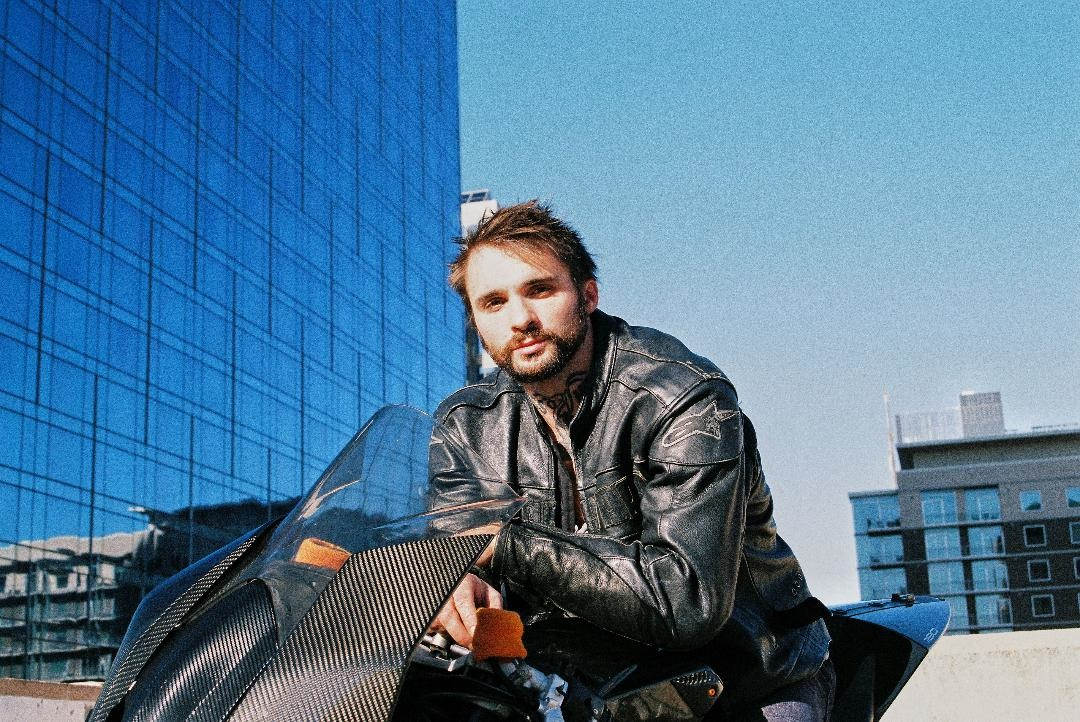
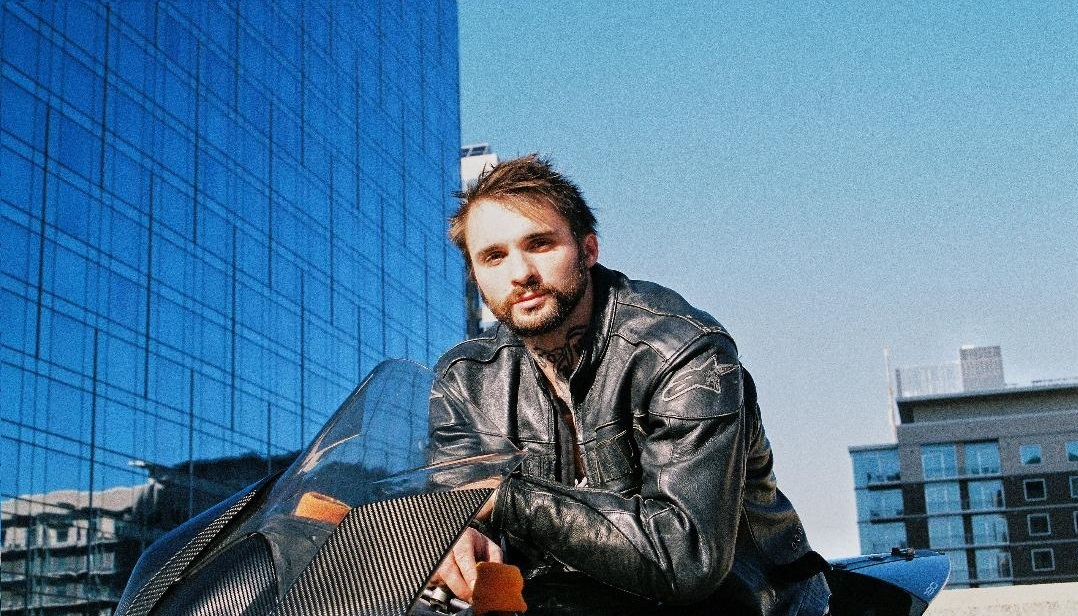
Up7
About page mvp

diff --git a/src/components/About/Index.js b/src/components/About/Index.js
@@ -4,15 +4,24 @@ import shot from "../../Assets/shot.jpg";
 function About() {
 
   return (
-    <section className="my-5" >
-      <h1 id="about">About</h1>
-      <img src={shot} className="my-2" style={{ width: "60%" }} alt="cover" />
-      <div className="my-2">
-        <p>
-        Will Bousman is a web developer living in Austin, Texas offering world-class technology services incorporating industry insights and adaptive acumen to leverage a strong foundation in engaging design principles, delivering dynamic solutions, fulfilling digital visions, and providing continuums of object-oriented scalable workforce service mobilization and reactive enterprise opportunities to digital innovation driving improved results streamlining actionable data into ideal versatile architechtural process management while simultaneously adventing mobile first value to disruptive strategic consulting business intelligence and online/database marketing technology that transforms clients through modern asynchronous machine learning tailored to emerging industries. Also he rides motorcycles.
+      <section>
+      <div className="wrap">
+        <img src={shot} className="img" alt="language-agnostic deadlock extraordinaire" />
+      </div>
+      <div>
+        <p className="about">About</p>
+      </div>
+      <div>
+        <p className="blurb">
+        Will Bousman is a web developer living in Austin, Texas offering world-class technology services incorporating industry insights and adaptive acumen to leverage a strong foundation in engaging design principles, delivering dynamic solutions, fulfilling digital visions, and providing continuums of object-oriented scalable workforce service mobilization and reactive enterprise opportunities to digital innovation driving improved results streamlining actionable data into ideal versatile architechtural process management while simultaneously adventing mobile first value to disruptive strategic consulting business intelligence and online/database marketing technology that transforms clients through modern asynchronous machine learning tailored to emerging industries.
         </p>
       </div>
-    </section>
+      <div>
+        <p className="moto">
+        Also he rides motorcycles
+        </p>
+      </div>
+      </section>
   )
 }
 

diff --git a/src/index.css b/src/index.css
@@ -17,7 +17,7 @@ code {
     monospace;
 }
 
-.foot {
+.wrap {
   display: flex;
   flex-wrap: wrap;
   justify-content: center;
@@ -27,5 +27,62 @@ code {
 .bg {
   background: url("https://i.imgur.com/xlEPGh1.png");
   background-size: cover;
-  animation: scroll 240s linear infinite;
+}
+
+.img {
+  width: 55%;
+  border-radius: 12px
+}
+
+.head {
+  padding: 0px 500px 20px 0px;
+  font-weight: 400;
+  font-size: 25px;
+  color: #a80079;
+  text-shadow: 3px 3px #313131;
+  text-align: right
+}
+
+.h1 {
+  padding: 30px 0 0 500px;
+  font-size: 45px;
+  color: rgb(0, 182, 238);
+  text-shadow: 3px 3px #313131;
+}
+
+.about {
+  padding: 15px 0px 0px 450px;
+  font-weight: 200;
+  font-size: 28px;
+  color: rgb(0, 182, 238);
+  text-shadow: 3px 3px #313131;
+}
+
+.blurb {
+  padding: 10px 200px 0px 200px;
+  font-weight: 300;
+  font-size: 18px;
+  color: #a80079;
+  text-shadow: 2px 2px #313131;
+}
+
+.moto {
+  padding: 10px 500px 0px 0px;
+  text-align: right;
+  font-weight: 300;
+  font-size: 18px;
+  color: #a80079;
+  text-shadow: 2px 2px #313131;
+}
+
+.foot {
+  padding: 20px 10px 10px 10px;
+  display: flex;
+  flex-wrap: wrap;
+  justify-content: center;
+  text-align: center;
+}
+
+a {
+  color: rgb(0, 182, 238);
 }

diff --git a/src/components/Footer/Index.js b/src/components/Footer/Index.js
@@ -3,11 +3,17 @@ import React from 'react'
 function footer() {
 
   return (
-      <div className="foot">
-        <a href="https://github.com/wsbousman">GitHub</a>
-        <a href="https://www.linkedin.com/in/william-bousman-856b03214/">LinkedIn</a>
-        <a href="mailto:willbausmann@yahoo.com">Email</a>
-      </div>
+    <div className="wrap">
+        <div className="foot">
+            <a href="https://github.com/wsbousman">GitHub</a>
+        </div>
+        <div className="foot">
+            <a href="https://www.linkedin.com/in/william-bousman-856b03214/">LinkedIn</a>
+        </div>
+        <div className="foot">
+            <a href="mailto:willbausmann@yahoo.com">Email</a>
+        </div>
+    </div>
   )
 }
 

diff --git a/src/components/Header/Index.js b/src/components/Header/Index.js
@@ -3,13 +3,9 @@ import React from 'react'
 function header() {
 
   return (
-    <section className="my-5" >
-      <h1 id="about">header</h1>
-      <div className="my-2">
-        <p>
-            test
-        </p>
-      </div>
+    <section>
+        <p className="h1">Will Bousman</p>
+        <p className="head">language-agnostic deadlock extraordinaire</p>
     </section>
   )
 }
